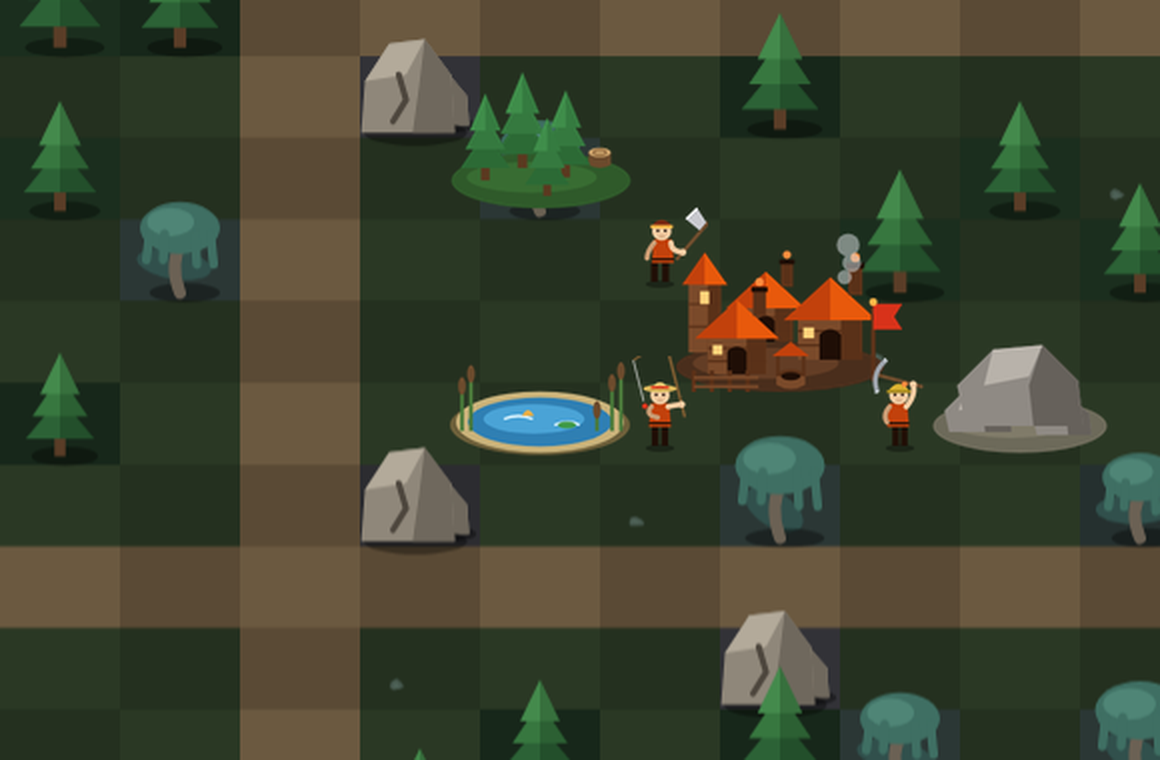
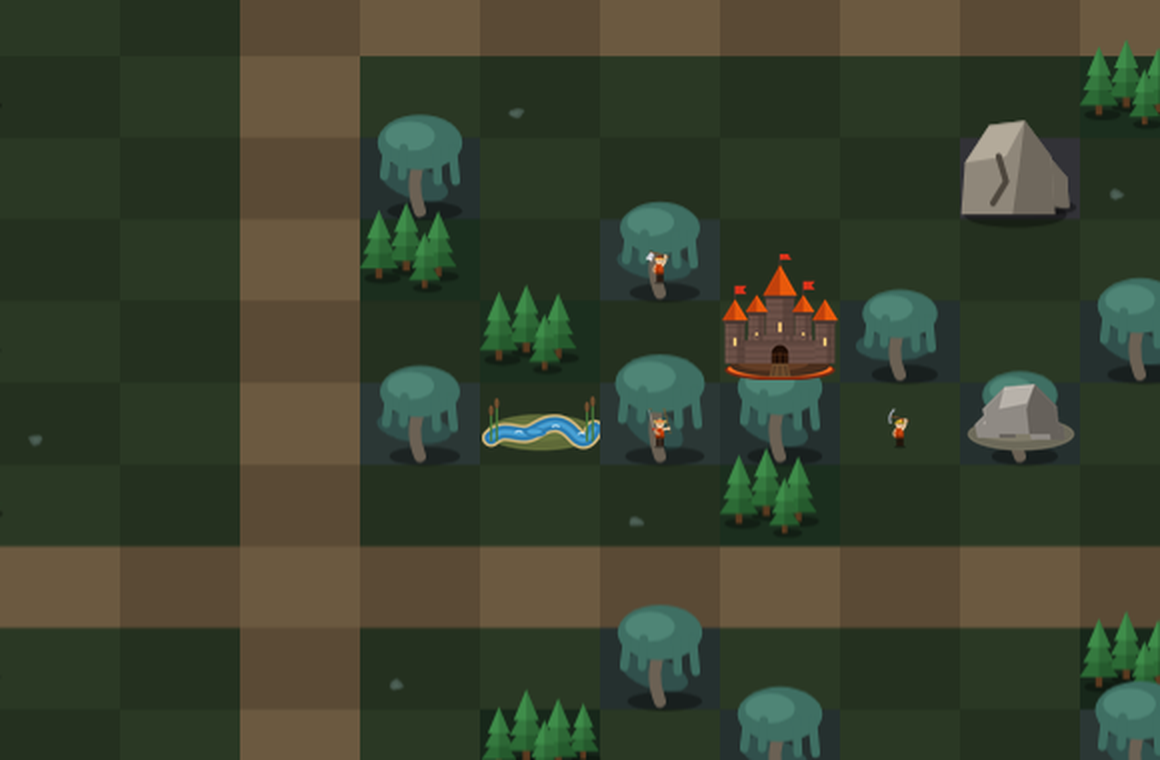
Wald als Tannengruppe ohne Wiesenfleck (27i); Dorf-Entwurf auf Feldgröße
Claude-Session: https://claude.ai/code/session_012Nsno37nEjc4wateER8C5H

diff --git a/index.html b/index.html
@@ -222,7 +222,7 @@ const FIREBASE_CONFIG = {
   appId: "1:45840879921:web:f4f4f8bb60e49a091ae010"
 };
 const GAME_ID = "spiel1";   // anderer Name = eigenes, getrenntes Spiel
-const VERSION = "2026-10-27h";  // bei JEDER Änderung hochzählen: alte Handys merken so, dass sie neu laden müssen
+const VERSION = "2026-10-27i";  // bei JEDER Änderung hochzählen: alte Handys merken so, dass sie neu laden müssen
 
 /* =====================================================================
    SPIELDATEN – Regeln und Zahlen. Alles hier darf geändert werden.
@@ -2073,7 +2073,18 @@ function drawTower25(c, tw, x, y, cs, aim, glow){
   c.fillStyle = '#ffffff22'; c.fillRect(sx, sy, cs*.05, hg + fh*.18);
   c.save(); c.translate(gx, gyy - hg); c.scale(1, k); drawTower(c, tw, 0, 0, cs, aim, glow); c.restore();
 }
-function drawTree(g, cx, fy, cs, h, swamp){   // 26.10. (F): richtige Bäume mit Stamm statt runder Kronen (Wald: Tanne, Sumpf: Trauerweide); Fußpunkt (cx, fy)
+// 27.10. (F): Wald = kleine Gruppe Tannen (Entwurf aus tools/dorf), ohne Wiesenfleck am Boden
+function drawForest(g, cx, fy, cs, h){
+  const u = cs / 50, T = [[-18, -3, 1], [-6, -7, 1.1], [8, -4, 1], [19, -8, .9], [2, 2, .9]].filter((_, i) => !(h === 3 && i === 3) && !(h === 1 && i === 0));
+  T.sort((a, b) => a[1] - b[1]).forEach(([tx, ty, ts], n) => { const x = cx + tx*u*.95, y = fy + (ty + 3)*u*.8 - cs*.12, k = ts * (.92 + ((h + n) % 3) * .05) * u;
+    g.fillStyle = 'rgba(0,0,0,.33)'; g.beginPath(); g.ellipse(x + 1.5*k, y, 7.5*k, 2.2*k, 0, 0, Math.PI*2); g.fill();
+    g.fillStyle = '#5a3a20'; g.fillRect(x - 1.4*k, y - 5*k, 2.8*k, 5*k);
+    [[-8, -4, -16, 8, '#2c6a35'], [-6.5, -10, -22, 6.5, '#35793f'], [-5, -16, -28, 5, '#3f8d4a']].forEach(([x1, y1, ty2, x2, col]) => {
+      g.fillStyle = col; g.beginPath(); g.moveTo(x + x1*k, y + y1*k); g.lineTo(x, y + ty2*k); g.lineTo(x + x2*k, y + y1*k); g.closePath(); g.fill();
+      g.fillStyle = '#00000026'; g.beginPath(); g.moveTo(x, y + ty2*k); g.lineTo(x + x2*k, y + y1*k); g.lineTo(x, y + y1*k); g.closePath(); g.fill(); }); });
+}
+function drawTree(g, cx, fy, cs, h, swamp){
+  if (!swamp) return drawForest(g, cx, fy, cs, h);   // 26.10. (F): richtige Bäume mit Stamm statt runder Kronen (Wald: Tanne, Sumpf: Trauerweide); Fußpunkt (cx, fy)
   const k = .92 + h * .06;
   g.fillStyle = 'rgba(0,0,0,.35)'; g.beginPath(); g.ellipse(cx + cs*.04, fy, cs*.3*k, cs*.08, 0, 0, Math.PI*2); g.fill();
   if (!swamp) {

diff --git a/tools/dorf/dorf.html b/tools/dorf/dorf.html
@@ -9,7 +9,7 @@ p.n{margin:2px 0 10px;color:#b9c4b0;max-width:900px}
 .lab{width:70px;align-self:center;font-weight:600;color:#e8eadf}
 </style>
 <h1>BurbenogInspired – Dorf, Arbeiter, Biome (Entwurf 26.10.)</h1>
-<p class="n">Nur Bilder zum gemeinsamen Überarbeiten, noch nichts im Spiel. Maßstab: ein Dorf = ein Feld, ein Arbeiter ist etwa ein Drittel Feld hoch.</p>
+<p class="n">Nur Bilder zum gemeinsamen Überarbeiten, noch nichts im Spiel. Maßstab: ein Dorf = genau ein Feld breit, ein Arbeiter ist etwa ein Viertel Feld hoch.</p>
 <div id="out"></div>
 <script>
 const P = {
@@ -100,7 +100,7 @@ function logs(x,y,s){return `<g transform="translate(${x} ${y}) scale(${s})"><re
 function wald(st){
  const T=[[-18,-3,1],[-6,-7,1.1],[8,-4,1],[19,-8,.9],[2,2,.9]];
  const S=[[-18,-3],[-6,-7],[8,-4],[19,-8],[2,2]];
- const dirt=st>=3; let b=`<ellipse cx="0" cy="0" rx="29" ry="9" fill="${dirt?'#5d4a30':'#2f5a2a'}"/><ellipse cx="-3" cy="-1" rx="21" ry="5" fill="${dirt?'#76603f':'#3b7035'}" opacity=".8"/>`;
+ let b='';   // ohne Wiesenfleck: der Boden kommt aus dem Spiel
  const trees=[5,4,3,1,0][st]; const order=[3,0,2,4,1];
  const keep=order.slice(5-trees).sort((a,c)=>T[a][1]-T[c][1]);
  // Stümpfe

diff --git a/team/UPDATES.md b/team/UPDATES.md
@@ -2,6 +2,10 @@
 
 <!-- So geht ein neuer Eintrag: direkt UNTER der Zeile „NEUE EINTRÄGE HIER“ einfügen (nie über ihr, nie in diesen Kopf).
 
+### 27.10. 21:00 · F · 2026-10-27i – Wald als Tannengruppe
+- Waldfelder zeigen jetzt eine Gruppe aus 4–5 kleinen Tannen (Entwurf aus tools/dorf) statt einer einzelnen Tanne, ohne Wiesenfleck am Boden. Nur Optik, Boni und Karten unverändert. Neu laden genügt.
+- Entwurfsbilder Dorf/Arbeiter: Dorf = 1 Feld breit, Arbeiter ≈ ¼ Feld hoch (Montage in assets/dorf-entwurf/_insitu-karte.png).
+
 ### 27.10. 20:30 · F · 2026-10-27h – Verbindung schneller prüfen
 - Rund um die Startzeit einer Welle (±90 s) fragt jedes Gerät alle 2 s den Stand ab (sonst weiter alle 10 s). Bleibt dann 5 s lang der Stand aus, baut die Seite die Verbindung neu auf; sonst nach 25 s.
 - Schlägt eine Abfrage fehl oder dauert über 5 s, wird sofort neu verbunden.
@@ -52,7 +56,4 @@ Lavaturm neu gezeichnet: dunkler Steinturm mitten in einem Lavasee, oben Zinnen 
 
 ### 26.10. 17:40 · F · 2026-10-26r – Feuerteufel wirft brennenden Dreizack
 Der Feuerteufel dreht sich zum Ziel (Dreizack-Seite zeigt zum Monster), der Dreizack dreht sich zum Ziel und verschwindet beim Wurf, ein neuer erscheint nach kurzer Zeit. Geschoss (`shot25`, Feuer Nr. 5): brennender Dreizack mit Flammenschweif, startet in der Hand. Nur Anzeige.
-
-### 26.10. 17:20 · F · 2026-10-26q – Brandpfeil: Bogen zielt, brennender Pfeil fliegt nach vorn
-Brandpfeil neu gezeichnet (Holzbogen auf Dreibein, 2 Teilbilder: Bogen, Pfeil; `PARTN`, `TOWER_H` angepasst). Dreht sich zum Ziel (Spiegelung wie Glumanda/Flammenwerfer), Bogen neigt sich zum Ziel, Pfeil fliegt vorn ab und wird neu aufgelegt. Geschoss (`shot25`, `feuer` Nr. 4): brennender Pfeil mit Flammenschweif, startet vorn am Bogen. Nur Anzeige.
 

diff --git a/team/archiv/updates-archiv.md b/team/archiv/updates-archiv.md
@@ -1,5 +1,8 @@
 # Archiv: ältere Updates (neueste oben)
 
+### 26.10. 17:20 · F · 2026-10-26q – Brandpfeil: Bogen zielt, brennender Pfeil fliegt nach vorn
+Brandpfeil neu gezeichnet (Holzbogen auf Dreibein, 2 Teilbilder: Bogen, Pfeil; `PARTN`, `TOWER_H` angepasst). Dreht sich zum Ziel (Spiegelung wie Glumanda/Flammenwerfer), Bogen neigt sich zum Ziel, Pfeil fliegt vorn ab und wird neu aufgelegt. Geschoss (`shot25`, `feuer` Nr. 4): brennender Pfeil mit Flammenschweif, startet vorn am Bogen. Nur Anzeige.
+
 ### 26.10. 17:00 · F · 2026-10-26p – Flammenwerfer: ein Feld groß, zusammenhängende Flamme
 Flammenwerfer neu gezeichnet (Tank + Düse, passt auf ein Feld; `tools/turm/tuerme.html`, Bilder neu erzeugt, `TOWER_H` feuer[2] = 26). Die Flamme (`drawFlame`, gezeichnet im Turm anhand `JETS`) ist ein welliges Band in drei Schichten von der Mündung bis zum Monster, mit Funken und Glut am Ziel. Nur Anzeige.
 
